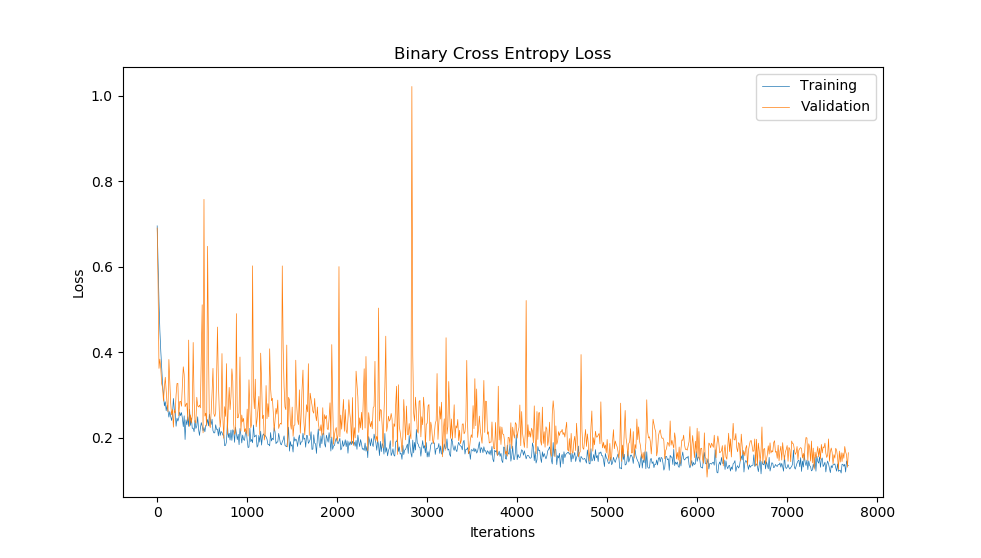
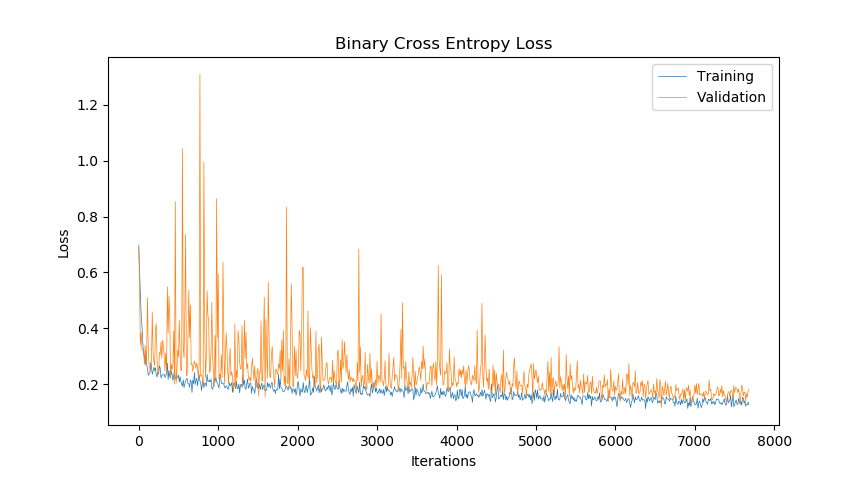
update loss plots and audio samples

diff --git a/README.md b/README.md
@@ -61,7 +61,7 @@ The window size and striding for the slices are controlled by `hparams.stft_fram
 ```python train.py <data dir> --checkpoint=<path to checkpoint file (*.pth)>```
 
 The first argument should be the same as the output directory of `preprocess`.  
-A pretrained model for `hparams.model_type = 'resnet18'` can be downloaded here: [resnet18_step000033000.pth](https://drive.google.com/open?id=19QciqI26LXrJtQqPiilPzhQHNGbx00pP).  
+A pretrained model for `hparams.model_type = 'resnet18'` can be downloaded here: [resnet18_step000007686.pth](https://drive.google.com/open?id=1jNlms59JSzNM8AkIVgMcwsk0lJ-QdkJnhttps://drive.google.com/open?id=19QciqI26LXrJtQqPiilPzhQHNGbx00pP).  
 The window size can be modified with `hparams.stft_frames`. Larger window sizes will require more GPU memory.
 
 ### Testing
@@ -90,7 +90,7 @@ The model was trained using the AdamW optimizer [6] with `beta1` 0.9, `beta2` 0.
 
 ### Generated Masks  
 
-Below are example masks generated by the model and the corresponding masked-mixture spectrograms.  
+Below are example binary masks generated by the model and the corresponding masked-mixture spectrograms.  
 
 <p align="center">
     <img src="assets/mask1.png" width="45%"/> <img src="assets/mask2.png" width="45%"/>
@@ -101,14 +101,14 @@ Audio examples were taken from [here](http://jordipons.me/apps/end-to-end-music-
 
 | Mixture | Wave-U-Net | DeepConvSep | Vocal-Mask | Ground Truth |
 |--------------------------------------------------------------------------------|--------------------------------------------------------------------------------|--------------------------------------------------------------------------------|--------------------------------------------------------------------------------|--------------------------------------------------------------------------------|
-| [Sample 1](https://drive.google.com/open?id=1ZO4g_1R3W1fVodf9RouIdywGIIAVJpvs) | [Sample 1](https://drive.google.com/open?id=1A1w2CKLJCrEX34VPRG1Yun5Hppgias1S) | [Sample 1](https://drive.google.com/open?id=18VOe6ADNbFN7KibjctGmKPwJ5UXleg7Y) | [Sample 1](https://drive.google.com/open?id=1pB0fPbTGTLkTqoJAU1Sl-ueTLKf3k998) | [Sample 1](https://drive.google.com/open?id=1EBcu9BbGcXvAwgBHlkbRTmH-j97XLNGy) |
-| [Sample 2](https://drive.google.com/open?id=1alGKLhc0J8yc_8P4GpBgns0DRtJMcFP4) | [Sample 2](https://drive.google.com/open?id=1y2LiTnpf4khqqVQWEs_llHrwR9j8BWAy) | [Sample 2](https://drive.google.com/open?id=1ZSH0R6s5K3kAO3VW_5cR79xu8mxNpdtW) | [Sample 2](https://drive.google.com/open?id=1ok-RYUMKqeXPBjXCSNlSDcEUc6i-jU9p) | [Sample 2](https://drive.google.com/open?id=1Vh3mKoC1fddg-6142pggoBreCCla7dCg) |
-| [Sample 3](https://drive.google.com/open?id=1GHGi8i-eRXNEnk88-iLxyOYa0uz8KDlM) | [Sample 3](https://drive.google.com/open?id=1tf1l4yJh8GG_o3pejD5TZm3s8Dw4IrZP) | [Sample 3](https://drive.google.com/open?id=1ND9H6Det-yWDjjhwEzZjjgflBQWyeN2W) | [Sample 3](https://drive.google.com/open?id=1LKnxlwuCOxojQ1nDOvFnLuxqtyHmf5zL) | [Sample 3](https://drive.google.com/open?id=1FiJIm1o3Iz6R52W8oDd2nMTH2INyPzDy) |
-| [Sample 4](https://drive.google.com/open?id=1l8wmEc_6yd32VPUYDYOUFZINqtK-Eif4) | [Sample 4](https://drive.google.com/open?id=1BZJDfQWgqJs_s-QWoU0DM4Ma1JZKPBYL) | [Sample 4](https://drive.google.com/open?id=1etJQe4R3lo47nV4GhgXOyBlsUGVLcw0c) | [Sample 4](https://drive.google.com/open?id=15OlwExrmH_tg2IMbudr2vgnx1QjbRuUs) | [Sample 4](https://drive.google.com/open?id=1sok6Pd3MweEw0LDJ8TWG8CxprxPr6pia) |
-| [Sample 5](https://drive.google.com/open?id=1wHpW9AxXDg-BZMyxc4XndCHDgkZ5zaL7) | [Sample 5](https://drive.google.com/open?id=1ENCfiPg--AAF3cDRgN9_ebRR4v-W_QYF) | [Sample 5](https://drive.google.com/open?id=19bQGqkKEbHjYrQ-_VB0TqaSORVmu1xGu) | [Sample 5](https://drive.google.com/open?id=1jybq2alNjNmghQRIjKL_P_PiscRhzwAz) | [Sample 5](https://drive.google.com/open?id=1Nr1oCb2NE0qZepbkBpJ6oR_6fDxbGvqW) |
+| [Sample 1](https://drive.google.com/open?id=1ZO4g_1R3W1fVodf9RouIdywGIIAVJpvs) | [Sample 1](https://drive.google.com/open?id=1A1w2CKLJCrEX34VPRG1Yun5Hppgias1S) | [Sample 1](https://drive.google.com/open?id=18VOe6ADNbFN7KibjctGmKPwJ5UXleg7Y) | [Sample 1](https://drive.google.com/open?id=1Wtl2Wxt3xqrt_aKyuMwDVc8FhscQTEvs) | [Sample 1](https://drive.google.com/open?id=1EBcu9BbGcXvAwgBHlkbRTmH-j97XLNGy) |
+| [Sample 2](https://drive.google.com/open?id=1alGKLhc0J8yc_8P4GpBgns0DRtJMcFP4) | [Sample 2](https://drive.google.com/open?id=1y2LiTnpf4khqqVQWEs_llHrwR9j8BWAy) | [Sample 2](https://drive.google.com/open?id=1ZSH0R6s5K3kAO3VW_5cR79xu8mxNpdtW) | [Sample 2](https://drive.google.com/open?id=1py4KC6EG6K63Xm3bPg0mFp59vbDJ75hM) | [Sample 2](https://drive.google.com/open?id=1Vh3mKoC1fddg-6142pggoBreCCla7dCg) |
+| [Sample 3](https://drive.google.com/open?id=1GHGi8i-eRXNEnk88-iLxyOYa0uz8KDlM) | [Sample 3](https://drive.google.com/open?id=1tf1l4yJh8GG_o3pejD5TZm3s8Dw4IrZP) | [Sample 3](https://drive.google.com/open?id=1ND9H6Det-yWDjjhwEzZjjgflBQWyeN2W) | [Sample 3](https://drive.google.com/open?id=1FoB7JwIWHsQS9K3dFjM3DdcRCS2AnSas) | [Sample 3](https://drive.google.com/open?id=1FiJIm1o3Iz6R52W8oDd2nMTH2INyPzDy) |
+| [Sample 4](https://drive.google.com/open?id=1l8wmEc_6yd32VPUYDYOUFZINqtK-Eif4) | [Sample 4](https://drive.google.com/open?id=1BZJDfQWgqJs_s-QWoU0DM4Ma1JZKPBYL) | [Sample 4](https://drive.google.com/open?id=1etJQe4R3lo47nV4GhgXOyBlsUGVLcw0c) | [Sample 4](https://drive.google.com/open?id=1VLeJeTYozQCGRNgQwAU_XJJLvLwG7-U_) | [Sample 4](https://drive.google.com/open?id=1sok6Pd3MweEw0LDJ8TWG8CxprxPr6pia) |
+| [Sample 5](https://drive.google.com/open?id=1wHpW9AxXDg-BZMyxc4XndCHDgkZ5zaL7) | [Sample 5](https://drive.google.com/open?id=1ENCfiPg--AAF3cDRgN9_ebRR4v-W_QYF) | [Sample 5](https://drive.google.com/open?id=19bQGqkKEbHjYrQ-_VB0TqaSORVmu1xGu) | [Sample 5](https://drive.google.com/open?id=1nyQ-GnhT1oBx7p72vveSxoXBqe3UQQ4S) | [Sample 5](https://drive.google.com/open?id=1Nr1oCb2NE0qZepbkBpJ6oR_6fDxbGvqW) |
 
 ### Spectrogram Comparisons  
-Note: The Ground Truth, Wave-U-Net, and DeepConvSep samples have lower sample rate, so the spectrogram is cut off above 4096Hz. 
+Note: Estimates and Ground Truth samples were downsampled to 16kHz to make a fair comparison.
 
 #### Sample 1 Spectrograms  
 <p align="center">
